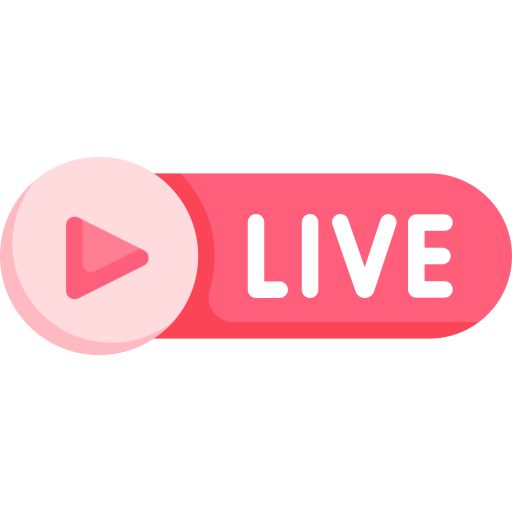
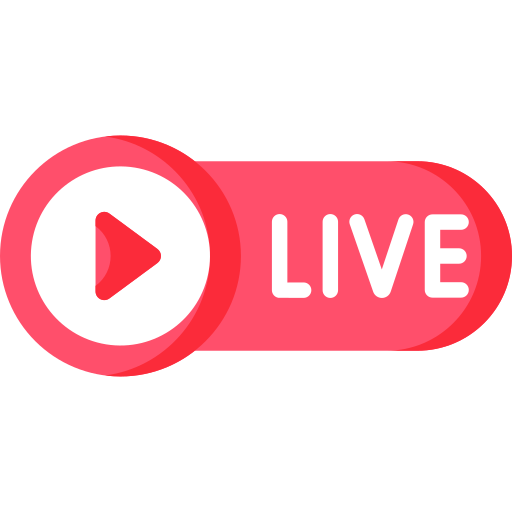
added error msgs and feedbacks

Changed region(s): [[0.0, 0.25, 1.0, 0.75]]

diff --git a/src/pages/home/favourites/FavouritesList.tsx b/src/pages/home/favourites/FavouritesList.tsx
@@ -1,0 +1,70 @@
+import React from "react";
+
+const FavouritesList = () => {
+  return (
+    <div className="mt-4 mx-2">
+      <div className="w-full bg-white dark:bg-zinc-800 shadow-lg rounded-lg overflow-hidden flex mt-2">
+        <img
+          src="https://placehold.co/300"
+          alt="Article Thumbnail"
+          className="w-1/3 h-48 object-cover object-center"
+        />
+        <div className="p-4 w-2/3">
+          <h3 className="text-lg font-semibold text-zinc-800 dark:text-zinc-200">
+            Article Title 1
+          </h3>
+          <p className="text-zinc-600 dark:text-zinc-400 mt-2">
+            Lorem ipsum dolor sit amet, consectetur adipiscing elit.
+          </p>
+        </div>
+      </div>
+      <div className="w-full bg-white dark:bg-zinc-800 shadow-lg rounded-lg overflow-hidden flex mt-2">
+        <img
+          src="https://placehold.co/300"
+          alt="Article Thumbnail"
+          className="w-1/3 h-48 object-cover object-center"
+        />
+        <div className="p-4 w-2/3">
+          <h3 className="text-lg font-semibold text-zinc-800 dark:text-zinc-200">
+            Article Title 2
+          </h3>
+          <p className="text-zinc-600 dark:text-zinc-400 mt-2">
+            Lorem ipsum dolor sit amet, consectetur adipiscing elit.
+          </p>
+        </div>
+      </div>
+      <div className="w-full bg-white dark:bg-zinc-800 shadow-lg rounded-lg overflow-hidden flex mt-2">
+        <img
+          src="https://placehold.co/300"
+          alt="Article Thumbnail"
+          className="w-1/3 h-48 object-cover object-center"
+        />
+        <div className="p-4 w-2/3">
+          <h3 className="text-lg font-semibold text-zinc-800 dark:text-zinc-200">
+            Article Title 2
+          </h3>
+          <p className="text-zinc-600 dark:text-zinc-400 mt-2">
+            Lorem ipsum dolor sit amet, consectetur adipiscing elit.
+          </p>
+        </div>
+      </div>
+      <div className="w-full bg-white dark:bg-zinc-800 shadow-lg rounded-lg overflow-hidden flex mt-2">
+        <img
+          src="https://placehold.co/300"
+          alt="Article Thumbnail"
+          className="w-1/3 h-48 object-cover object-center"
+        />
+        <div className="p-4 w-2/3">
+          <h3 className="text-lg font-semibold text-zinc-800 dark:text-zinc-200">
+            Article Title 2
+          </h3>
+          <p className="text-zinc-600 dark:text-zinc-400 mt-2">
+            Lorem ipsum dolor sit amet, consectetur adipiscing elit.
+          </p>
+        </div>
+      </div>
+    </div>
+  );
+};
+
+export default FavouritesList;

diff --git a/src/pages/profile/index.tsx b/src/pages/profile/index.tsx
@@ -29,6 +29,7 @@ const Profile = () => {
   let [sports, setSports] = useState({});
   let [teams, setTeams] = useState({});
   const navigate = useNavigate();
+  let [msg, setMsg] = useState("Welcome to SportBuzz Application");
 
   const fetchPrefernces = async () => {
     const token = localStorage.getItem("authToken") ?? "";
@@ -87,6 +88,7 @@ const Profile = () => {
         throw new Error(`Failed to update password: ${errorMessage}`);
       }
       console.log("Password updated successfully");
+      setMsg("Password updated successfully");
       pclose();
     } catch (error) {
       console.error("Error updating password:", error.message);
@@ -119,9 +121,12 @@ const Profile = () => {
       <>
         <div className="bg-blue-200 min-h-screen flex items-center justify-center">
           <div className="bg-white p-6 rounded-lg shadow-lg w-full max-w-3xl">
+            <div className="mt-4 text-lg text-green-600 font-semibold  sm:mt-0 mb-2 text-center">
+              {msg}
+            </div>
             <div className="flex flex-col items-center sm:flex-row sm:justify-between">
               <div className="flex flex-col items-center sm:items-start">
-                <div className="w-24 h-24 mb-3 sm:mb-0 sm:mr-4">
+                <div className="w-24 h-24 mb-3 sm:mb-0 sm:mr-4 text-center">
                   <img
                     className="rounded-full border-4 border-blue-300"
                     src={profile}
@@ -135,7 +140,7 @@ const Profile = () => {
                   <p className="text-lg font-bold text-gray-600">{email}</p>
                 </div>
               </div>
-              <div className="mt-4 sm:mt-0"></div>
+
               <div className="mt-6 flex flex-col items-center sm:flex-row sm:justify-between">
                 <Button
                   onClick={popen}

diff --git a/src/pages/home/favourites/index.tsx b/src/pages/home/favourites/index.tsx
@@ -1,0 +1,27 @@
+import React from "react";
+import FavouritesList from "./FavouritesList";
+
+const Favourites = () => {
+  return (
+    <div className="bg-white dark:bg-zinc-800 shadow-lg rounded-lg overflow-hidden w-1/4 mx-2">
+      <h2 className="text-lg font-semibold text-zinc-800 dark:text-zinc-200 p-4">
+        Favorites
+      </h2>
+      <div className=" p-4">
+        <select className="w-1/3 bg-zinc-100 dark:bg-zinc-700 border border-zinc-200 dark:border-zinc-600 rounded p-2 mr-2">
+          <option value="filter1">Filter 1</option>
+          <option value="filter2">Filter 2</option>
+          <option value="filter3">Filter 3</option>
+        </select>
+        <select className="w-1/3 bg-zinc-100 dark:bg-zinc-700 border border-zinc-200 dark:border-zinc-600 rounded p-2">
+          <option value="team1">Team 1</option>
+          <option value="team2">Team 2</option>
+          <option value="team3">Team 3</option>
+        </select>
+      </div>
+      <FavouritesList />
+    </div>
+  );
+};
+
+export default Favourites;

diff --git a/src/pages/home/matches/MatchItem.tsx b/src/pages/home/matches/MatchItem.tsx
@@ -2,7 +2,7 @@ import React, { useEffect, useState } from "react";
 import { Link } from "react-router-dom";
 import completed from "../../../assets/images/completed.png";
 import football from "../../../assets/images/football.png";
-import live from "../../../assets/images/livew.gif";
+import live from "../../../assets/images/live.png";
 import reload from "../../../assets/images/reload.png";
 import { API_ENDPOINT } from "../../../config/constants";
 import "./styles.css";
@@ -108,7 +108,7 @@ const MatchItem: React.FC<MatchItemProps> = ({ matchId }) => {
                 <img
                   id="reload"
                   src={reload}
-                  className="hover:animate-spin h-8 w-8 hover:bg-blue-400 p-1 rounded justify-end ml-4 "
+                  className="onclick:animate-spin h-8 w-8 hover:bg-blue-400 p-1 rounded justify-end ml-4 "
                 />
               </button>
             </div>

diff --git a/src/pages/signup/SignupForm.tsx b/src/pages/signup/SignupForm.tsx
@@ -35,8 +35,8 @@ const SignupForm: React.FC = () => {
       }
       console.log("Sign-up successful");
       const responsedata = await response.json();
-      console.log(responsedata.user, responsedata.token);
-      localStorage.setItem("authToken", responsedata.token);
+
+      localStorage.setItem("authToken", responsedata.auth_token);
       localStorage.setItem("userData", JSON.stringify(responsedata.user));
 
       navigate("/account");

diff --git a/dev-dist/sw.js b/dev-dist/sw.js
@@ -82,7 +82,7 @@ define(['./workbox-b5f7729d'], (function (workbox) { 'use strict';
     "revision": "3ca0b8505b4bec776b69afdba2768812"
   }, {
     "url": "index.html",
-    "revision": "0.dq81fe430to"
+    "revision": "0.3mnqfgk5ek"
   }], {});
   workbox.cleanupOutdatedCaches();
   workbox.registerRoute(new workbox.NavigationRoute(workbox.createHandlerBoundToURL("index.html"), {

diff --git a/src/pages/signin/SigninForm.tsx b/src/pages/signin/SigninForm.tsx
@@ -35,8 +35,10 @@ const SigninForm: React.FC = () => {
 
       localStorage.setItem("userData", JSON.stringify(data.user));
       navigate("/account");
+      alert("Sign-in successful");
     } catch (error) {
       console.error("Sign-in failed:", error);
+      alert("Sign-in failed:");
     }
   };
 
